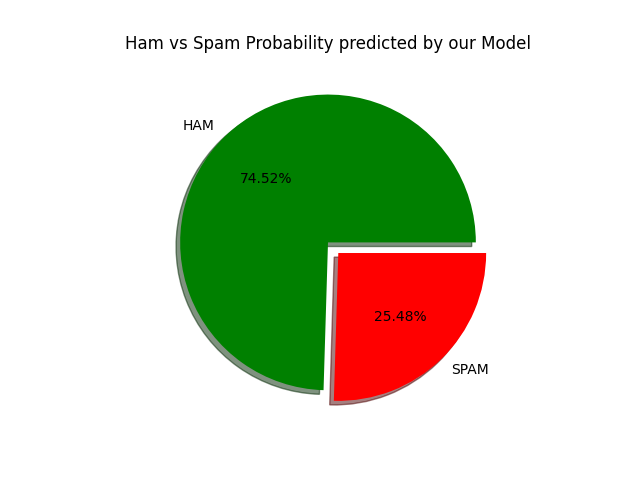
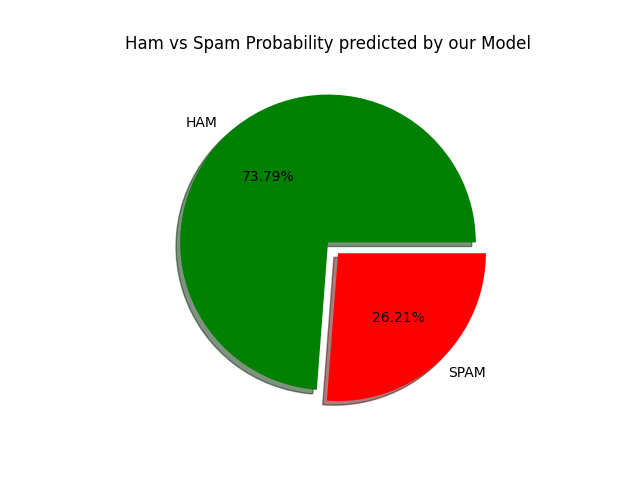
rectified the pie chart problem

diff --git a/templates/result.html b/templates/result.html
@@ -7,6 +7,10 @@
 </head>
 <body>
     <h3>The message is {{output}}</h3>
-    <img src="/static/probab_pie_chart.png">
+    <img src="/static/probab_pie_chart.png"><br>
+    <form action="/correct_pred" method="post"><button type="submit">Correct Prediction</button></form>
+    <h5>FeedBack Buttons</h5>
+    <form action="/wrong_pred" method="post"><button type="submit">Wrong Prediction</button></form>
+    <p><b>Note: clicking any of these will save your msg on our database for Refining our Model</b></p>
 </body>
 </html>

diff --git a/templates/index.html b/templates/index.html
@@ -8,7 +8,7 @@
 <body>
     <form action="/result" method="post">
         <label for ="msg">SMS</label>
-        <textarea name="msg" id = 'msg'>Enter Here</textarea>
+        <textarea name="msg" id = 'msg' required>Enter Here</textarea>
         <button type="submit">Check Spam or Ham</button>
     </form>
 </body>

diff --git a/templates/thanks.html b/templates/thanks.html
@@ -1,0 +1,11 @@
+<!DOCTYPE html>
+<html lang="en">
+<head>
+    <meta charset="UTF-8">
+    <meta name="viewport" content="width=device-width, initial-scale=1.0">
+    <title>Document</title>
+</head>
+<body>
+    <h3>Thanks for the feedback.</h3>
+</body>
+</html>

diff --git a/app.py b/app.py
@@ -3,14 +3,20 @@ import preprocess_m
 import nltk_setup
 import joblib
 import numpy as np 
+import csv
 import generate_pie_chart
 
 app = Flask(__name__)
-
+op = ""
+msg = ""
 mnb = joblib.load('model_mnb.pkl')
 rf = joblib.load('model_rf.pkl')
 svc = joblib.load('model_svc.pkl')
 vectorizor = joblib.load('vectorizer.pkl')
+
+
+
+
 
 @app.route('/')
 @app.route('/home')
@@ -19,6 +25,7 @@ def home_page():
 
 @app.route('/result',methods = ['POST','GET'])
 def result():
+    global msg
     msg = request.form['msg']
     # print(msg,'\n')
     cleaned_msg = preprocess_m.preprocess_msg(msg)
@@ -33,12 +40,37 @@ def result():
     output = 0 if op_list.count(0)>op_list.count(1) else 1
     # print(output)
     # return op_list
+    global op
     op = 'HAM' if output==0 else 'SPAM' if output == 1 else 'ERROR Occured'
     print(op,'\n')
     ham_probab = np.mean([x[0] for x in probabs])
     ham_percent = ham_probab*100
     generate_pie_chart.gen_pie(ham_percent)
     return render_template('result.html',output = op)
+
+@app.route('/correct_pred',methods=['GET','POST'])
+def correct_prediction():
+    # print("correct prediction")
+    p_list = [',','"',"'"]
+    ref_msg = ''.join([c for c in msg if c not in p_list])
+    # msg_to_insert = f"{ref_msg},{op}"
+    with open('gathered_data.csv','a',newline='') as file:
+        writer = csv.writer(file)
+        writer.writerow([ref_msg,op])
+    return render_template('thanks.html')
+
+@app.route('/wrong_pred',methods=['GET','POST'])
+def wrong_prediction():
+    # print("wrong prediction")
+    p_list = [',','"',"'"]
+    ref_msg = ''.join([c for c in msg if c not in p_list])
+    not_op = 'HAM' if op=='SPAM' else 'SPAM'
+    # msg_to_insert = f"{ref_msg},{not_op}"
+    with open('gathered_data.csv','a',newline='') as file:
+        writer = csv.writer(file)
+        writer.writerow([ref_msg,not_op])
+    return render_template('thanks.html')
+
 
 if __name__ == '__main__':
     nltk_setup.ensure_nltk_resources()

diff --git a/generate_pie_chart.py b/generate_pie_chart.py
@@ -1,6 +1,9 @@
+import matplotlib
+matplotlib.use('Agg')
 import matplotlib.pyplot as plt
 
 def gen_pie(ham_percent):
+    plt.clf()
     percentages = [ham_percent,(100-ham_percent)]
     plt.pie(percentages,explode=[0,0.1],labels=['HAM','SPAM'],autopct='%1.2f%%',colors=['green','red'],shadow=True)
     plt.title("Ham vs Spam Probability predicted by our Model")
